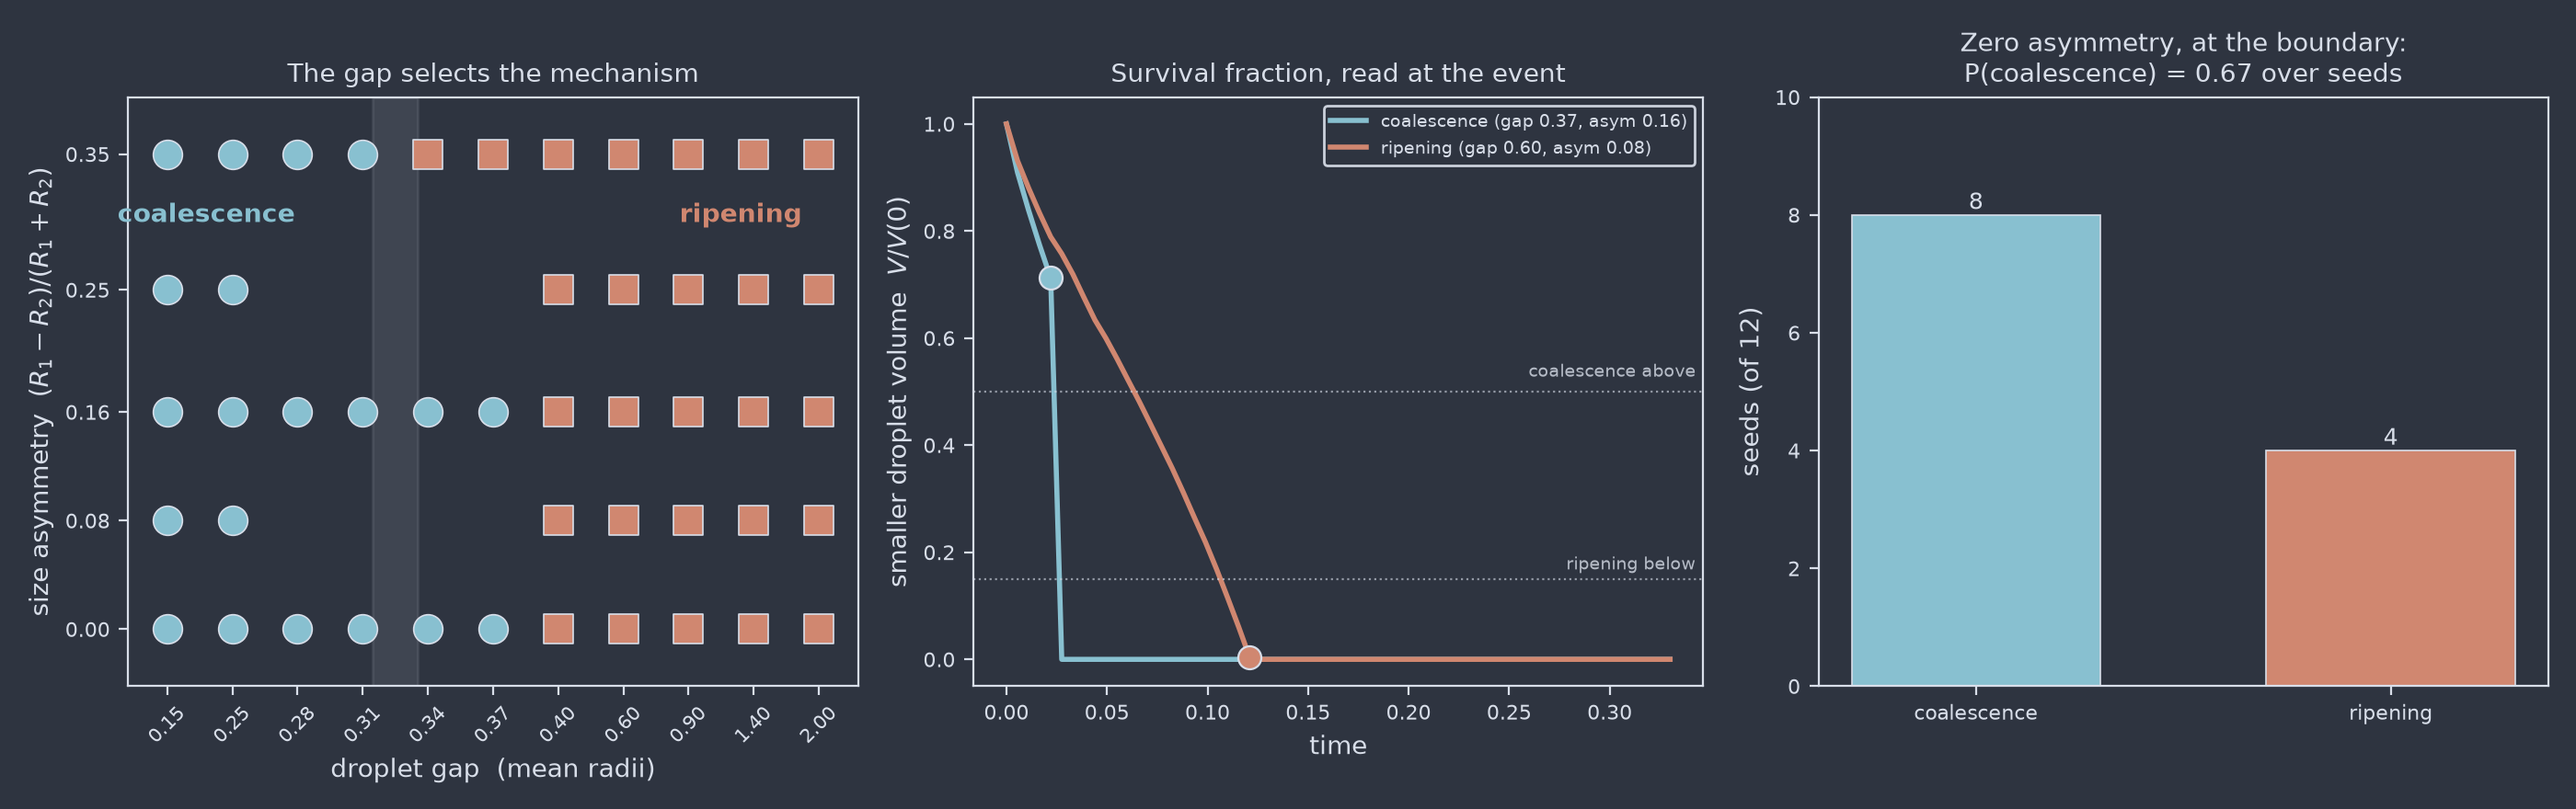
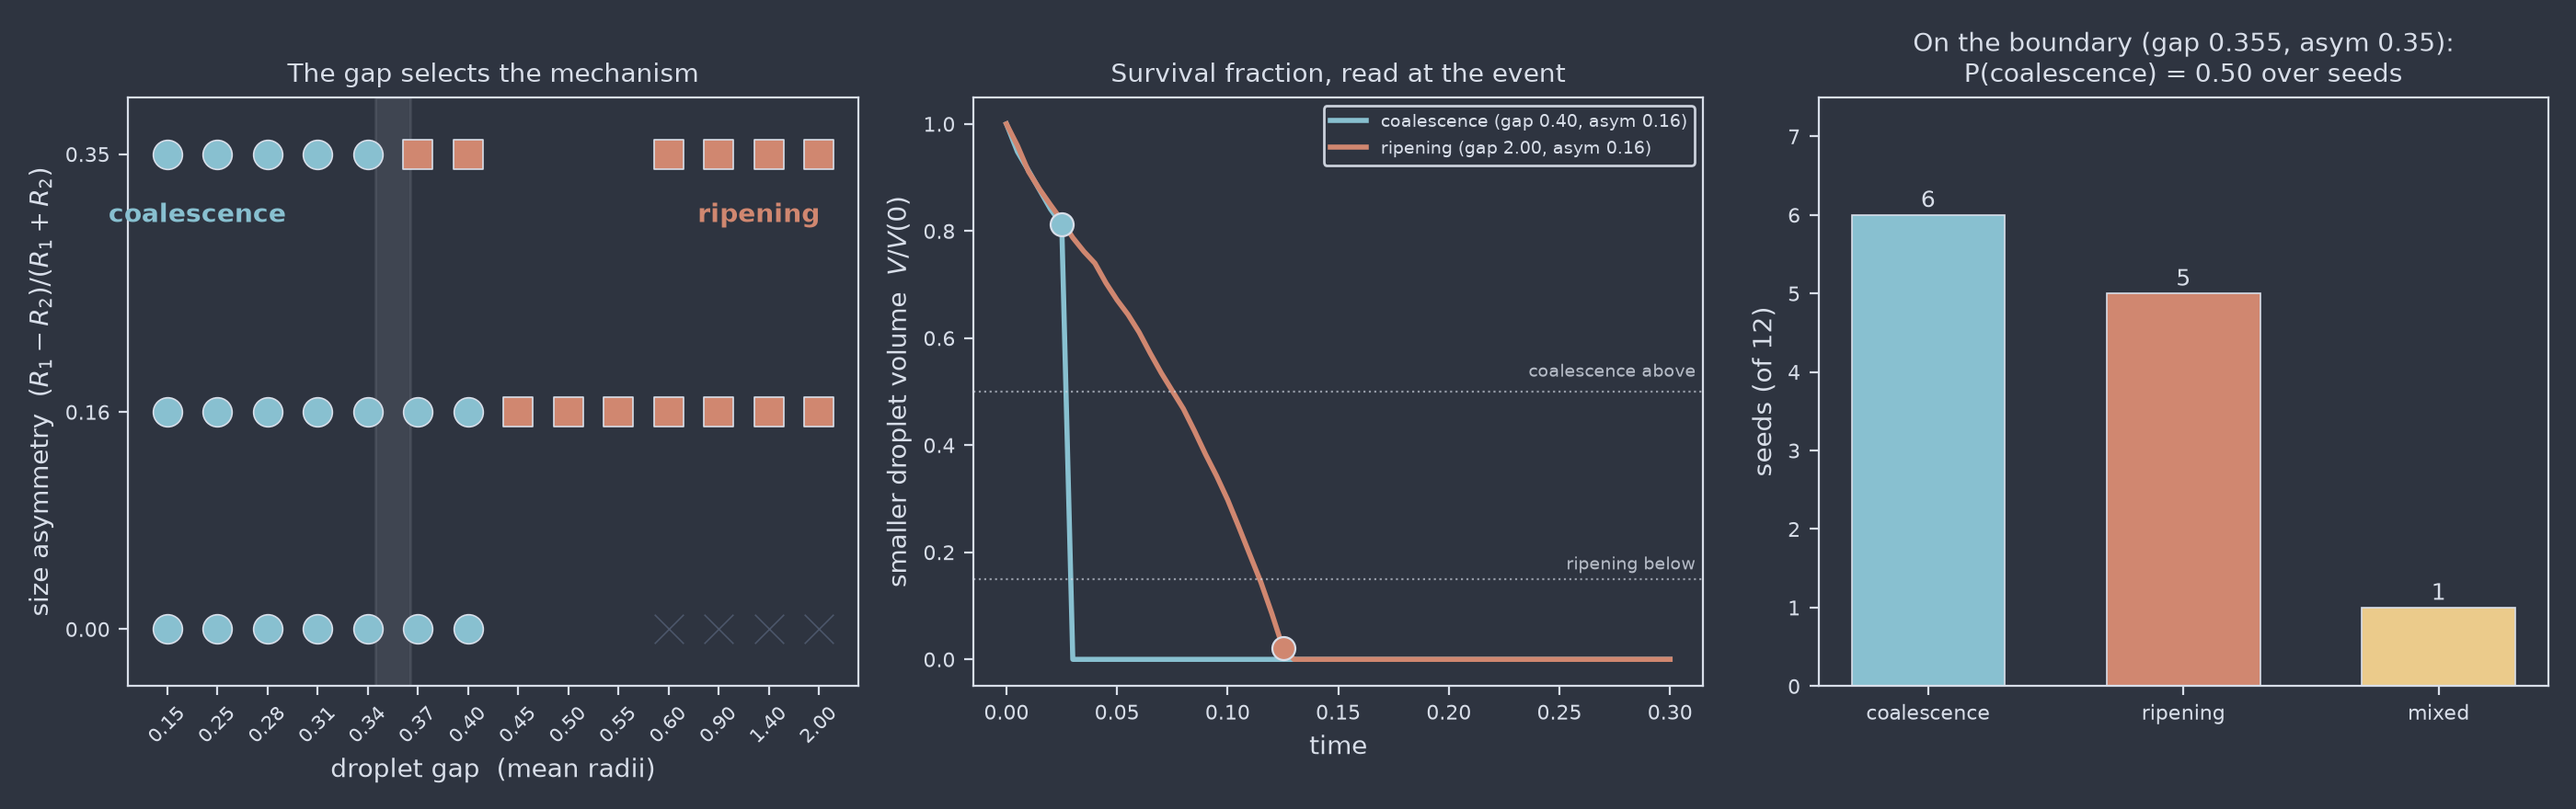
eggshell boundary resweep, the tilt matches the tail prediction

diff --git a/docs/models/eggshell_droplets_3d.md b/docs/models/eggshell_droplets_3d.md
@@ -84,67 +84,72 @@ uncertainty is honest near the boundary.
 | `shell_outer` | 0.44 | (0.15, 0.48) | Outer pellet radius, box units |
 | `shell_thickness` | 0.20 | (0.02, 1.0) | Active layer thickness — the confinement knob |
 | `shell_roughness` | 0.0 | (0.0, 0.6) | Relative amplitude of random thickness variation |
+| `shell_corrugation` | 0.0 | (0.0, 0.8) | Egg-carton corrugation amplitude |
+| `corrugation_modes` | 6.0 | (2.0, 14.0) | Bumps around a great circle |
 | `droplet_radius` | 0.09 | (0.02, 0.14) | Mean droplet radius $\bar{R}$ |
 | `size_asymmetry` | 0.15 | (0.0, 0.5) | $(R_1-R_2)/(R_1+R_2)$ — the ripening drive |
 | `droplet_gap` | 1.0 | (0.05, 6.0) | Surface-to-surface gap in units of $\bar{R}$ |
 | `noise_intensity` | 0.0 | (0.0, 1e-5) | Conserved thermal noise $\Theta$ |
-| `time_end` | 0.4 | (0.001, 5.0) | Final time |
+| `time_end` | 0.3 | (0.001, 5.0) | Final time |
 
 ### Which knob selects the regime
 
 **`droplet_gap` decides the outcome, and it decides it almost alone.** A sweep
-of gap against asymmetry at $128^3$ puts the boundary between $0.25$ and
-$0.40\,\bar{R}$ at *every* asymmetry tested, from 0 to 0.35:
+of gap against asymmetry at $128^3$, 37 runs:
 
-| asym \ gap | 0.15 | 0.25 | 0.40 | 0.60 | 0.90 | 1.40 | 2.00 |
-|---|---|---|---|---|---|---|---|
-| 0.00 | coal | coal | ripe | ripe | ripe | ripe | ripe |
-| 0.08 | coal | coal | ripe | ripe | ripe | ripe | ripe |
-| 0.16 | coal | coal | ripe | ripe | ripe | ripe | ripe |
-| 0.25 | coal | coal | ripe | ripe | ripe | ripe | ripe |
-| 0.35 | coal | coal | ripe | ripe | ripe | ripe | ripe |
+| asym \ gap | 0.15 | 0.25 | 0.28 | 0.31 | 0.34 | 0.37 | 0.40 | 0.60 | 0.90 | 1.40 | 2.00 |
+|---|---|---|---|---|---|---|---|---|---|---|---|
+| 0.00 | coal | coal | coal | coal | coal | coal | coal | — | — | — | — |
+| 0.16 | coal | coal | coal | coal | coal | coal | coal | ripe | ripe | ripe | ripe |
+| 0.35 | coal | coal | coal | coal | coal | ripe | ripe | ripe | ripe | ripe | ripe |
 
-The reason is a separation of timescales, and it is worth being explicit about
-because it is easy to expect otherwise. Bridging is an interface-relaxation
-process: once the diffuse interfaces overlap it completes in a time set by
-$\varepsilon$ and the mobility, far faster than anything diffusive. Ripening
-is diffusive, taking $t \sim 2R^3/(M\sigma)$. So wherever bridging is possible
-at all it wins outright, whatever the Gibbs-Thomson difference between the
-partners, and wherever it is not, ripening is the only channel left.
+The reason the gap dominates is a separation of timescales, and it is worth
+being explicit about because it is easy to expect otherwise. Bridging is an
+interface-relaxation process: once the diffuse interfaces overlap it completes
+in a time set by $\varepsilon$ and the mobility, far faster than anything
+diffusive. Ripening is diffusive, taking $t \sim 2R^3/(M\sigma)$. So wherever
+bridging is possible at all it wins outright, and wherever it is not, ripening
+is the only channel left.
 
-**`size_asymmetry` sets the ripening rate, not the winner.** It controls the
-driving force $\sigma(1/R_2 - 1/R_1)$, and so how fast the ripening branch
-runs to completion and how far the survival fraction falls — but it only moves
-the boundary itself in the narrow window where the two timescales are
-comparable. At zero asymmetry there is no ripening drive at all, which makes
-that row a special case worth reading the warning below about.
+**`size_asymmetry` moves the boundary, but only near it.** It controls the
+driving force $\sigma(1/R_2 - 1/R_1)$, hence how fast the ripening branch runs
+and how far the survival fraction falls. Raising it from 0.16 to 0.35 pulls
+the boundary in from between $0.40$ and $0.45\,\bar{R}$ to between $0.34$ and
+$0.37$ — a real but confined effect, exactly where the two timescales become
+comparable. The size of that shift is not free: equating the two rates gives
+$g^*(a) = \text{const} - (\varepsilon/\sqrt2)\ln a$, predicting $0.0055$,
+against $0.0063$ measured.
 
-**`shell_thickness` favours ripening as it tightens**, which is the opposite of
-what the confinement argument first suggests. Measured at gap $0.31$,
-asymmetry $0.16$, the survival fraction falls monotonically as the shell
-closes in:
+The dashes on the top row are not gaps in the sweep. At zero asymmetry there
+is no ripening drive at all, so a well-separated pair simply persists: those
+runs reach `time_end` with both droplets intact and are reported `unresolved`,
+which is the honest answer there. See the warning below.
+
+**`shell_thickness` holds the pair apart as it tightens.** Measured at gap
+$0.31$, asymmetry $0.16$, the contact gap at the event widens monotonically as
+the shell closes in, while the survival fraction stays high:
 
 | shell thickness | 0.10 | 0.14 | 0.20 | 0.28 |
 |---|---|---|---|---|
-| $\rho$ | 0.853 | 0.884 | 0.910 | 0.922 |
+| contact gap ($\varepsilon$) | 4.87 | 3.57 | 2.87 | 2.77 |
+| $\rho$ | 0.913 | 0.929 | 0.947 | 0.947 |
+| regime | `mixed` | `coal` | `coal` | `coal` |
 
-Squeezing the droplets into lenses raises the curvature at their rims, and so
-the Gibbs-Thomson potential driving the exchange; and it turns the diffusion
-field between them quasi-two-dimensional, which decays more slowly with
-distance than the three-dimensional $1/r$ field. Both accelerate ripening, so
-the smaller droplet has given up more of itself by the time the pair merges.
-Like asymmetry, though, the effect is on the rate: every thickness in that
-range still coalesced at this gap, and at a gap well outside the coalescence
-window every thickness from 0.08 to 0.28 still ripened.
+Squeezing the droplets into lenses spreads them laterally within the layer and
+keeps their cores further apart, so the pair that merges comfortably in a
+roomy shell is, at $\delta = 0.10$, already on the boundary. Confinement
+therefore acts against coalescence rather than for it — the same direction the
+egg-carton corrugation pushes, and for the same reason.
 
 !!! warning "Zero asymmetry is an unstable equilibrium"
     At `size_asymmetry = 0` the partners are identical, so there is no
     Gibbs-Thomson difference and nothing selects which of them dissolves. The
     pair sits on a knife edge, and in a deterministic run the tie is broken by
     the grid — the two centres fall at different sub-cell offsets — which is an
-    artefact, not physics. Runs on that line still terminate, and they are
-    still labelled, but the label says more about the discretisation than about
-    the material. This is precisely what `noise_intensity` is for: with
+    artefact, not physics. In the sweep those runs simply persist to
+    `time_end` and are reported `unresolved`, which is the correct answer for a
+    pair with no reason to change. This is precisely what `noise_intensity` is
+    for: with
     conserved thermal noise the symmetry is broken physically and the outcome
     becomes a distribution over seeds rather than a single answer. Away from
     the line, the asymmetry dominates any grid effect and deterministic runs
@@ -285,31 +290,38 @@ so what differs on screen is the mechanism rather than the pacing.
 with the boundary band shaded. Centre: the smaller droplet's volume through a
 run of each kind, with the survival fraction read at the marked event. Right:
 on the zero-asymmetry line, where the deterministic problem is a knife edge,
-conserved noise turns the outcome into a distribution over seeds.</figcaption>
+conserved noise turns the outcome into a distribution over seeds: on the
+boundary itself the split is 6 coalescence to 5 ripening, while the
+deterministic run cannot decide at all.</figcaption>
 </figure>
 
-The boundary is sharp and lives in the gap, but it is not vertical. Resolving
-the window between $0.28$ and $0.40$ shows it tilting with asymmetry, exactly
-where the two timescales become comparable:
+The boundary is sharp, lives in the gap, and is not vertical. Resolving the
+window between $0.28$ and $0.60$ shows it tilting with asymmetry, exactly where
+the two timescales become comparable:
 
 | gap | asym 0.00 | asym 0.16 | asym 0.35 |
 |---|---|---|---|
-| 0.28 | coal | coal | coal |
-| 0.31 | coal ($\rho$ 0.951) | coal (0.910) | coal (0.787) |
-| 0.34 | coal (0.951) | coal (0.907) | **ripe** (0.056) |
-| 0.37 | coal (0.886) | coal (0.712) | **ripe** (0.049) |
-| 0.40 | ripe | ripe | ripe |
+| 0.31 | coal ($\rho$ 0.977) | coal (0.947) | coal (0.848) |
+| 0.34 | coal (0.976) | coal (0.942) | coal (0.719) |
+| 0.37 | coal (0.970) | coal (0.910) | **ripe** (0.139) |
+| 0.40 | coal (0.959) | coal (0.812) | **ripe** (0.137) |
+| 0.60 | — | **ripe** (0.034) | **ripe** (0.013) |
 
-Raising the asymmetry from 0 to 0.35 moves the boundary from between
-$0.37$–$0.40$ down to between $0.31$–$0.34$. Inside the coalescence region the
-survival fraction falls steadily with asymmetry at fixed gap, so the
-continuous coordinate registers the competition long before the label does.
+Inside the coalescence region the survival fraction falls steadily with
+asymmetry at fixed gap, so the continuous coordinate registers the competition
+long before the label does.
 
-Away from that band the outcome is either essentially 1 — both partners intact
-at the merger — or below 0.1, with very little in between, which is what makes
-the classification robust rather than a matter of where a threshold sits.
+The two populations are widely separated in both signals, which is what makes
+the classification robust rather than a matter of where a threshold sits:
 
-Mass drift over all 56 runs peaked at $1.1\times10^{-16}$.
+| | contact gap | $\rho$ |
+|---|---|---|
+| merged | 1.31 – 3.77 $\varepsilon$ | 0.719 – 1.000 |
+| ripened | 5.71 – 9.71 $\varepsilon$ | 0.013 – 0.139 |
+
+Across all 37 runs the two never disagreed, and no run was labelled `mixed`.
+
+Mass drift over the whole sweep peaked at $4.4\times10^{-16}$.
 
 ## Validation
 
